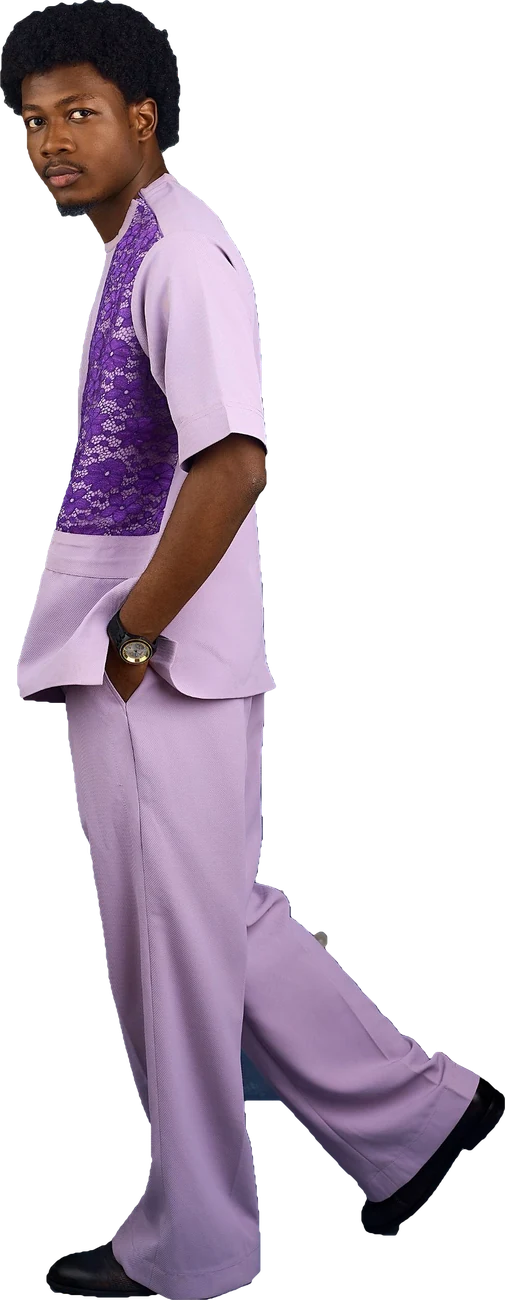
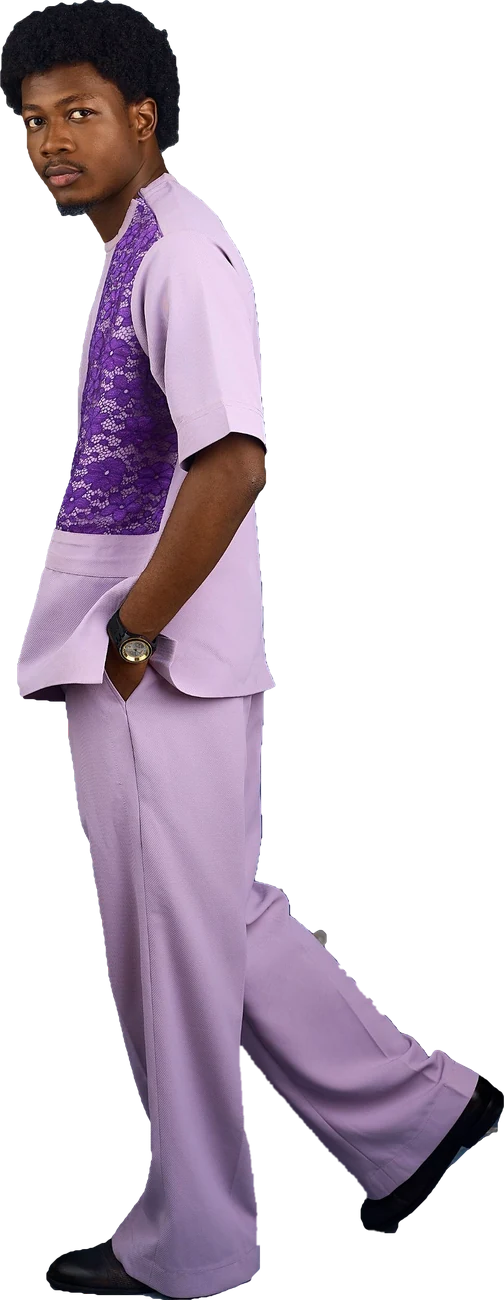
Clean feet on the Pink and Lilac runway pictures
Claude-Session: https://claude.ai/code/session_013vfZc2mS5T176uTj2Qo96s

diff --git a/index.html b/index.html
@@ -4,7 +4,7 @@
 <meta charset="utf-8">
 <meta name="viewport" content="width=device-width,initial-scale=1">
 <title>Nations Clothing</title>
-<meta http-equiv="Content-Security-Policy" content="default-src 'none'; script-src 'sha256-8jWu6xZ/jTjdVRETObOXCBa3+ZckzQ8iqR5aaGPfHdw='; style-src 'self' 'unsafe-inline' https://fonts.googleapis.com; font-src https://fonts.gstatic.com; img-src 'self' data: https://cnwiclvcgsoppobptzej.supabase.co; media-src 'self'; connect-src 'self' https://cnwiclvcgsoppobptzej.supabase.co; base-uri 'none'; form-action 'none'; object-src 'none'">
+<meta http-equiv="Content-Security-Policy" content="default-src 'none'; script-src 'sha256-idUOC27FhOTP6L+qx45SS2CHYzVFWOoHWkP40GOvg4w='; style-src 'self' 'unsafe-inline' https://fonts.googleapis.com; font-src https://fonts.gstatic.com; img-src 'self' data: https://cnwiclvcgsoppobptzej.supabase.co; media-src 'self'; connect-src 'self' https://cnwiclvcgsoppobptzej.supabase.co; base-uri 'none'; form-action 'none'; object-src 'none'">
 <meta name="referrer" content="no-referrer">
 <meta name="theme-color" content="#fbf9f7">
 <meta name="description" content="Nations Clothing: unisex fashion made in Nigeria and shipped worldwide. Shop the new collection and order on WhatsApp.">
@@ -484,11 +484,11 @@ header{background:#fbf6f2;box-shadow:0 1px 0 rgba(42,23,17,.09)}
 </div>
 
 <script>
-const A={"blossom": "img/blossom.webp?v=34d3451b", "dt-bloom": "img/dt-bloom.webp?v=a482db41", "dt-doxa": "img/dt-doxa.webp?v=b55b7f0e", "dt-esther": "img/dt-esther.webp?v=657341b9", "dt-monarch": "img/dt-monarch.webp?v=26121059", "dt-palette": "img/dt-palette.webp?v=e948cd7b", "dt-regent": "img/dt-regent.webp?v=74b560ff", "dt-sterling": "img/dt-sterling.webp?v=3f79e2e7", "dt-wave": "img/dt-wave.webp?v=07986a21", "hero-monarch": "img/hero-monarch.webp?v=21c65c76", "hero-regent": "img/hero-regent.webp?v=74b560ff", "lb-cage": "img/lb-cage.webp?v=eb76b7d3", "lb-group": "img/lb-group.webp?v=dd1621d4", "lb-lilac": "img/lb-lilac.webp?v=4a7664a2", "lb-redpink": "img/lb-redpink.webp?v=4bcd90cd", "look-bloom": "img/look-bloom.webp?v=b67dfac6", "look-doxa": "img/look-doxa.webp?v=df278483", "look-lilac": "img/look-lilac.webp?v=19ea8439", "look-monarch": "img/look-monarch.webp?v=c066a208", "look-palette": "img/look-palette.webp?v=83179417", "look-pink": "img/look-pink.webp?v=4941dd75", "look-regent": "img/look-regent.webp?v=62cc9b2b", "look-sterling": "img/look-sterling.webp?v=f4a94f68", "ph-bloom": "img/ph-bloom.webp?v=7d5749c8", "ph-doxa": "img/ph-doxa.webp?v=e5de78d0", "ph-esther": "img/ph-esther.webp?v=fb95168b", "ph-lilac": "img/ph-lilac.webp?v=89a54724", "ph-monarch": "img/ph-monarch.webp?v=21c65c76", "ph-palette": "img/ph-palette.webp?v=f4042a6a", "ph-pink": "img/ph-pink.webp?v=e0b42fd2", "ph-regent": "img/ph-regent.webp?v=a90b126e", "ph-sterling": "img/ph-sterling.webp?v=a009a0af", "ph-wave": "img/ph-wave.webp?v=b13daa5e", "women-poster": "img/women-poster.webp?v=6f24562f"};
+const A={"blossom": "img/blossom.webp?v=34d3451b", "dt-bloom": "img/dt-bloom.webp?v=a482db41", "dt-doxa": "img/dt-doxa.webp?v=b55b7f0e", "dt-esther": "img/dt-esther.webp?v=657341b9", "dt-monarch": "img/dt-monarch.webp?v=26121059", "dt-palette": "img/dt-palette.webp?v=e948cd7b", "dt-regent": "img/dt-regent.webp?v=74b560ff", "dt-sterling": "img/dt-sterling.webp?v=3f79e2e7", "dt-wave": "img/dt-wave.webp?v=07986a21", "hero-monarch": "img/hero-monarch.webp?v=21c65c76", "hero-regent": "img/hero-regent.webp?v=74b560ff", "lb-cage": "img/lb-cage.webp?v=eb76b7d3", "lb-group": "img/lb-group.webp?v=dd1621d4", "lb-lilac": "img/lb-lilac.webp?v=4a7664a2", "lb-redpink": "img/lb-redpink.webp?v=4bcd90cd", "look-bloom": "img/look-bloom.webp?v=b67dfac6", "look-doxa": "img/look-doxa.webp?v=df278483", "look-lilac": "img/look-lilac.webp?v=7d8214e3", "look-monarch": "img/look-monarch.webp?v=c066a208", "look-palette": "img/look-palette.webp?v=83179417", "look-pink": "img/look-pink.webp?v=80a5e6a9", "look-regent": "img/look-regent.webp?v=62cc9b2b", "look-sterling": "img/look-sterling.webp?v=f4a94f68", "ph-bloom": "img/ph-bloom.webp?v=7d5749c8", "ph-doxa": "img/ph-doxa.webp?v=e5de78d0", "ph-esther": "img/ph-esther.webp?v=fb95168b", "ph-lilac": "img/ph-lilac.webp?v=89a54724", "ph-monarch": "img/ph-monarch.webp?v=21c65c76", "ph-palette": "img/ph-palette.webp?v=f4042a6a", "ph-pink": "img/ph-pink.webp?v=e0b42fd2", "ph-regent": "img/ph-regent.webp?v=a90b126e", "ph-sterling": "img/ph-sterling.webp?v=a009a0af", "ph-wave": "img/ph-wave.webp?v=b13daa5e", "women-poster": "img/women-poster.webp?v=6f24562f"};
 const small=Math.min(screen.width,innerWidth)<=820;
 const pic=k=>small&&A[k].slice(0,4)==='img/'?A[k].replace('img/','img/s/'):A[k];
 const NUM=(a,b)=>{const o=[];for(let n=a;n<=b;n+=2)o.push(String(n));return o};
-const SB='https://cnwiclvcgsoppobptzej.supabase.co',SBK='sb_publishable_mn2nnN3zDJKhPapdlBtQlw_ofwsgG4q',SEED={"products": [{"id": "regent", "name": "The Regent Set", "grp": "men", "price": 60000, "big_price": null, "sizes": ["M", "L", "XL"], "colours": ["Black"], "description": "A relaxed, flowing silhouette in premium textured fabric, refined with contrast patterned details on the sleeves and pocket. Effortless in style, for both formal and celebratory occasions.", "perfect_for": "", "note": "", "photo": "img/ph-regent.webp?v=a90b126e", "photo2": "img/dt-regent.webp?v=74b560ff", "new_photo": "img/hero-regent.webp?v=74b560ff", "cutout": "img/look-regent.webp?v=62cc9b2b", "cutout_w": 506, "cutout_h": 1300, "scale": 1, "in_catalogue": true, "in_women": false, "is_new": true, "on_runway": true, "sold_out": false, "sort": 20}, {"id": "bloom", "name": "The Bloom Dress", "grp": "women", "price": 55000, "big_price": 58000, "sizes": ["4", "6", "8", "10", "12", "14", "16", "18", "20", "22", "24"], "colours": ["Orange / cream", "Red / cream", "Baby pink / deep pink", "Black / white", "Olive green / yellow", "Blue / sky blue"], "description": "Designed for Queens who love to stand out: a structured bodice, a voluminous flared skirt and dramatic ruffles around the neckline and shoulders, finished with delicate floral embellishments.", "perfect_for": "Birthdays, weddings, garden parties, bridal showers", "note": "", "photo": "img/ph-bloom.webp?v=7d5749c8", "photo2": "img/dt-bloom.webp?v=a482db41", "new_photo": null, "cutout": "img/look-bloom.webp?v=b67dfac6", "cutout_w": 475, "cutout_h": 1300, "scale": 1, "in_catalogue": true, "in_women": true, "is_new": false, "on_runway": true, "sold_out": false, "sort": 10}, {"id": "monarch", "name": "The Monarch Set", "grp": "men", "price": 55000, "big_price": null, "sizes": ["M", "L", "XL"], "colours": ["Sky Blue", "Black", "White"], "description": "For the Kings who love to look good without doing too much. A beautifully crafted native piece that brings together comfort, class and effortless style.", "perfect_for": "", "note": "Processed within 3 to 7 working days.", "photo": "img/ph-monarch.webp?v=21c65c76", "photo2": "img/dt-monarch.webp?v=26121059", "new_photo": "img/hero-monarch.webp?v=21c65c76", "cutout": "img/look-monarch.webp?v=c066a208", "cutout_w": 1102, "cutout_h": 1200, "scale": 0.8, "in_catalogue": true, "in_women": false, "is_new": true, "on_runway": true, "sold_out": false, "sort": 40}, {"id": "sterling", "name": "The Sterling Set", "grp": "men", "price": 55000, "big_price": null, "sizes": ["S", "M", "L", "XL", "XXL"], "colours": ["Black", "Brown", "Wine", "White", "Navy Blue"], "description": "A structured short-sleeve shirt in warm tan with four contrasting chocolate cargo pockets, paired with tailored straight-leg trousers in rich chocolate brown.", "perfect_for": "Wedding receptions, birthdays, dinner dates, church", "note": "", "photo": "img/ph-sterling.webp?v=a009a0af", "photo2": "img/dt-sterling.webp?v=3f79e2e7", "new_photo": null, "cutout": "img/look-sterling.webp?v=f4a94f68", "cutout_w": 484, "cutout_h": 1300, "scale": 1, "in_catalogue": true, "in_women": false, "is_new": false, "on_runway": true, "sold_out": false, "sort": 60}, {"id": "palette", "name": "The Palette Set", "grp": "women", "price": 55000, "big_price": 60000, "sizes": ["8", "10", "12", "14", "16", "18", "20", "22", "24"], "colours": ["Fuchsia Pink", "Green", "Blue"], "description": "An oversized two-piece set that blends comfort, elegance and effortless style.", "perfect_for": "Casual outings, brunch dates, travel, relaxed gatherings", "note": "", "photo": "img/ph-palette.webp?v=f4042a6a", "photo2": "img/dt-palette.webp?v=e948cd7b", "new_photo": null, "cutout": "img/look-palette.webp?v=83179417", "cutout_w": 775, "cutout_h": 1300, "scale": 1, "in_catalogue": true, "in_women": false, "is_new": false, "on_runway": true, "sold_out": false, "sort": 50}, {"id": "doxa", "name": "The Doxa Bubu", "grp": "women", "price": 65000, "big_price": 73000, "sizes": ["4", "6", "8", "10", "12", "14", "16", "18", "20", "22", "24"], "colours": ["Green", "Blue", "Brown", "Silver", "Red"], "description": "A blend of sophistication, comfort and timeless African elegance: rich, vibrant colour, a graceful silhouette and exquisite finishing, for Queens who love to make an effortless statement.", "perfect_for": "Weddings, church, birthdays, cultural events", "note": "", "photo": "img/ph-doxa.webp?v=e5de78d0", "photo2": "img/dt-doxa.webp?v=b55b7f0e", "new_photo": null, "cutout": "img/look-doxa.webp?v=df278483", "cutout_w": 729, "cutout_h": 1200, "scale": 1, "in_catalogue": true, "in_women": true, "is_new": false, "on_runway": true, "sold_out": false, "sort": 0}, {"id": "esther", "name": "The Esther Dress", "grp": "women", "price": 55000, "big_price": null, "sizes": ["4", "6", "8", "10", "12", "14", "16", "18", "20", "22"], "colours": ["Wine", "Black", "Brown", "White", "Navy Blue"], "description": "A flowing, relaxed silhouette with dramatic wide sleeves, an off-shoulder neckline finished with soft ruffles, and a contrasting ruffled hem.", "perfect_for": "Wedding receptions, birthdays, dinner dates, church", "note": "", "photo": "img/ph-esther.webp?v=fb95168b", "photo2": "img/dt-esther.webp?v=657341b9", "new_photo": null, "cutout": null, "cutout_w": null, "cutout_h": null, "scale": 1, "in_catalogue": true, "in_women": true, "is_new": false, "on_runway": false, "sold_out": false, "sort": 30}, {"id": "wave", "name": "The Wave Cord Set", "grp": "women", "price": 60000, "big_price": null, "sizes": ["4", "6", "8", "10", "12"], "colours": ["Green", "Blue", "Silver", "Brown"], "description": "A bold blend of colour, creativity and comfort: a wave-inspired design in beautiful cord texture with a relaxed silhouette.", "perfect_for": "Casual outings, brunch dates, creative events", "note": "", "photo": "img/ph-wave.webp?v=b13daa5e", "photo2": "img/dt-wave.webp?v=07986a21", "new_photo": null, "cutout": null, "cutout_w": null, "cutout_h": null, "scale": 1, "in_catalogue": true, "in_women": true, "is_new": false, "on_runway": false, "sold_out": false, "sort": 70}, {"id": "lilac", "name": "The Lilac Lace Look", "grp": "men", "price": null, "big_price": null, "sizes": ["S", "M", "L", "XL"], "colours": ["Lilac"], "description": "A lilac set with a purple lace panel, from the new shoot. Ask us on WhatsApp for the price and sizes.", "perfect_for": "", "note": "", "photo": "img/ph-lilac.webp?v=89a54724", "photo2": null, "new_photo": null, "cutout": "img/look-lilac.webp?v=19ea8439", "cutout_w": 505, "cutout_h": 1300, "scale": 1, "in_catalogue": false, "in_women": false, "is_new": false, "on_runway": true, "sold_out": false, "sort": 80}, {"id": "pink", "name": "The Pink Cord Look", "grp": "men", "price": null, "big_price": null, "sizes": ["S", "M", "L", "XL"], "colours": ["Pink"], "description": "A soft pink set with black cord detail, from the new shoot. Ask us on WhatsApp for the price and sizes.", "perfect_for": "", "note": "", "photo": "img/ph-pink.webp?v=e0b42fd2", "photo2": null, "new_photo": null, "cutout": "img/look-pink.webp?v=4941dd75", "cutout_w": 537, "cutout_h": 1300, "scale": 1, "in_catalogue": false, "in_women": false, "is_new": false, "on_runway": true, "sold_out": false, "sort": 90}], "lookbook": [{"photo": "img/lb-group.webp?v=dd1621d4", "alt": "Two men and two women from the new collection holding Nations Clothing bags", "sort": 0}, {"photo": "img/lb-lilac.webp?v=4a7664a2", "alt": "Lilac set with a purple lace panel", "sort": 10}, {"photo": "img/lb-cage.webp?v=eb76b7d3", "alt": "Black and olive tops with lattice sleeves", "sort": 20}, {"photo": "img/lb-redpink.webp?v=4bcd90cd", "alt": "Red set and pink set with cord detail", "sort": 30}], "text": {"contact": {"whatsapp": "2348147061094", "whatsapp_display": "+234 814 706 1094", "instagram": "nationsclothing.ng"}, "intro": {"heading": "Our New Look", "text": "Unisex clothing, made in Nigeria and shipped worldwide. Drag or scroll to walk the line."}, "women": {"heading": "For the Queens", "text": "Statement pieces for Queens who love to stand out: bubu, dresses and sets in rich, vibrant colour, sized 4 to 24."}, "footer": {"tagline": "Unisex fashion brand. Established 2020.", "lines": ["Made in Nigeria. Ships worldwide.", "Demurin Street, Ketu, Lagos."], "copyright": "© 2026 Nations Clothing. Made in Nigeria, shipped worldwide."}, "policy": {"items": [["Payment", "Full payment is required before orders are processed. We do not accept payment on delivery."], ["Processing time", "Orders are processed within 3 to 7 working days."], ["Delivery", "We deliver nationwide and internationally. International orders are mainly shipped by cargo. Delivery fees depend on the destination."], ["Returns and exchanges", "All sales are final. Returns or exchanges are only considered for damaged, defective or incorrect items reported within 24 hours of delivery."], ["Order cancellation", "Orders cannot be cancelled once processing has started."], ["Size and colour", "Please confirm your size, style and colour before payment. Slight colour differences may occur because of lighting and screens."]], "thanks": "Thank you for shopping with Nations Clothing Fashion House."}}};
+const SB='https://cnwiclvcgsoppobptzej.supabase.co',SBK='sb_publishable_mn2nnN3zDJKhPapdlBtQlw_ofwsgG4q',SEED={"products": [{"id": "regent", "name": "The Regent Set", "grp": "men", "price": 60000, "big_price": null, "sizes": ["M", "L", "XL"], "colours": ["Black"], "description": "A relaxed, flowing silhouette in premium textured fabric, refined with contrast patterned details on the sleeves and pocket. Effortless in style, for both formal and celebratory occasions.", "perfect_for": "", "note": "", "photo": "img/ph-regent.webp?v=a90b126e", "photo2": "img/dt-regent.webp?v=74b560ff", "new_photo": "img/hero-regent.webp?v=74b560ff", "cutout": "img/look-regent.webp?v=62cc9b2b", "cutout_w": 506, "cutout_h": 1300, "scale": 1, "in_catalogue": true, "in_women": false, "is_new": true, "on_runway": true, "sold_out": false, "sort": 20}, {"id": "bloom", "name": "The Bloom Dress", "grp": "women", "price": 55000, "big_price": 58000, "sizes": ["4", "6", "8", "10", "12", "14", "16", "18", "20", "22", "24"], "colours": ["Orange / cream", "Red / cream", "Baby pink / deep pink", "Black / white", "Olive green / yellow", "Blue / sky blue"], "description": "Designed for Queens who love to stand out: a structured bodice, a voluminous flared skirt and dramatic ruffles around the neckline and shoulders, finished with delicate floral embellishments.", "perfect_for": "Birthdays, weddings, garden parties, bridal showers", "note": "", "photo": "img/ph-bloom.webp?v=7d5749c8", "photo2": "img/dt-bloom.webp?v=a482db41", "new_photo": null, "cutout": "img/look-bloom.webp?v=b67dfac6", "cutout_w": 475, "cutout_h": 1300, "scale": 1, "in_catalogue": true, "in_women": true, "is_new": false, "on_runway": true, "sold_out": false, "sort": 10}, {"id": "monarch", "name": "The Monarch Set", "grp": "men", "price": 55000, "big_price": null, "sizes": ["M", "L", "XL"], "colours": ["Sky Blue", "Black", "White"], "description": "For the Kings who love to look good without doing too much. A beautifully crafted native piece that brings together comfort, class and effortless style.", "perfect_for": "", "note": "Processed within 3 to 7 working days.", "photo": "img/ph-monarch.webp?v=21c65c76", "photo2": "img/dt-monarch.webp?v=26121059", "new_photo": "img/hero-monarch.webp?v=21c65c76", "cutout": "img/look-monarch.webp?v=c066a208", "cutout_w": 1102, "cutout_h": 1200, "scale": 0.8, "in_catalogue": true, "in_women": false, "is_new": true, "on_runway": true, "sold_out": false, "sort": 40}, {"id": "sterling", "name": "The Sterling Set", "grp": "men", "price": 55000, "big_price": null, "sizes": ["S", "M", "L", "XL", "XXL"], "colours": ["Black", "Brown", "Wine", "White", "Navy Blue"], "description": "A structured short-sleeve shirt in warm tan with four contrasting chocolate cargo pockets, paired with tailored straight-leg trousers in rich chocolate brown.", "perfect_for": "Wedding receptions, birthdays, dinner dates, church", "note": "", "photo": "img/ph-sterling.webp?v=a009a0af", "photo2": "img/dt-sterling.webp?v=3f79e2e7", "new_photo": null, "cutout": "img/look-sterling.webp?v=f4a94f68", "cutout_w": 484, "cutout_h": 1300, "scale": 1, "in_catalogue": true, "in_women": false, "is_new": false, "on_runway": true, "sold_out": false, "sort": 60}, {"id": "palette", "name": "The Palette Set", "grp": "women", "price": 55000, "big_price": 60000, "sizes": ["8", "10", "12", "14", "16", "18", "20", "22", "24"], "colours": ["Fuchsia Pink", "Green", "Blue"], "description": "An oversized two-piece set that blends comfort, elegance and effortless style.", "perfect_for": "Casual outings, brunch dates, travel, relaxed gatherings", "note": "", "photo": "img/ph-palette.webp?v=f4042a6a", "photo2": "img/dt-palette.webp?v=e948cd7b", "new_photo": null, "cutout": "img/look-palette.webp?v=83179417", "cutout_w": 775, "cutout_h": 1300, "scale": 1, "in_catalogue": true, "in_women": false, "is_new": false, "on_runway": true, "sold_out": false, "sort": 50}, {"id": "doxa", "name": "The Doxa Bubu", "grp": "women", "price": 65000, "big_price": 73000, "sizes": ["4", "6", "8", "10", "12", "14", "16", "18", "20", "22", "24"], "colours": ["Green", "Blue", "Brown", "Silver", "Red"], "description": "A blend of sophistication, comfort and timeless African elegance: rich, vibrant colour, a graceful silhouette and exquisite finishing, for Queens who love to make an effortless statement.", "perfect_for": "Weddings, church, birthdays, cultural events", "note": "", "photo": "img/ph-doxa.webp?v=e5de78d0", "photo2": "img/dt-doxa.webp?v=b55b7f0e", "new_photo": null, "cutout": "img/look-doxa.webp?v=df278483", "cutout_w": 729, "cutout_h": 1200, "scale": 1, "in_catalogue": true, "in_women": true, "is_new": false, "on_runway": true, "sold_out": false, "sort": 0}, {"id": "esther", "name": "The Esther Dress", "grp": "women", "price": 55000, "big_price": null, "sizes": ["4", "6", "8", "10", "12", "14", "16", "18", "20", "22"], "colours": ["Wine", "Black", "Brown", "White", "Navy Blue"], "description": "A flowing, relaxed silhouette with dramatic wide sleeves, an off-shoulder neckline finished with soft ruffles, and a contrasting ruffled hem.", "perfect_for": "Wedding receptions, birthdays, dinner dates, church", "note": "", "photo": "img/ph-esther.webp?v=fb95168b", "photo2": "img/dt-esther.webp?v=657341b9", "new_photo": null, "cutout": null, "cutout_w": null, "cutout_h": null, "scale": 1, "in_catalogue": true, "in_women": true, "is_new": false, "on_runway": false, "sold_out": false, "sort": 30}, {"id": "wave", "name": "The Wave Cord Set", "grp": "women", "price": 60000, "big_price": null, "sizes": ["4", "6", "8", "10", "12"], "colours": ["Green", "Blue", "Silver", "Brown"], "description": "A bold blend of colour, creativity and comfort: a wave-inspired design in beautiful cord texture with a relaxed silhouette.", "perfect_for": "Casual outings, brunch dates, creative events", "note": "", "photo": "img/ph-wave.webp?v=b13daa5e", "photo2": "img/dt-wave.webp?v=07986a21", "new_photo": null, "cutout": null, "cutout_w": null, "cutout_h": null, "scale": 1, "in_catalogue": true, "in_women": true, "is_new": false, "on_runway": false, "sold_out": false, "sort": 70}, {"id": "lilac", "name": "The Lilac Lace Look", "grp": "men", "price": null, "big_price": null, "sizes": ["S", "M", "L", "XL"], "colours": ["Lilac"], "description": "A lilac set with a purple lace panel, from the new shoot. Ask us on WhatsApp for the price and sizes.", "perfect_for": "", "note": "", "photo": "img/ph-lilac.webp?v=89a54724", "photo2": null, "new_photo": null, "cutout": "img/look-lilac.webp?v=7d8214e3", "cutout_w": 504, "cutout_h": 1300, "scale": 1, "in_catalogue": false, "in_women": false, "is_new": false, "on_runway": true, "sold_out": false, "sort": 80}, {"id": "pink", "name": "The Pink Cord Look", "grp": "men", "price": null, "big_price": null, "sizes": ["S", "M", "L", "XL"], "colours": ["Pink"], "description": "A soft pink set with black cord detail, from the new shoot. Ask us on WhatsApp for the price and sizes.", "perfect_for": "", "note": "", "photo": "img/ph-pink.webp?v=e0b42fd2", "photo2": null, "new_photo": null, "cutout": "img/look-pink.webp?v=80a5e6a9", "cutout_w": 530, "cutout_h": 1300, "scale": 1, "in_catalogue": false, "in_women": false, "is_new": false, "on_runway": true, "sold_out": false, "sort": 90}], "lookbook": [{"photo": "img/lb-group.webp?v=dd1621d4", "alt": "Two men and two women from the new collection holding Nations Clothing bags", "sort": 0}, {"photo": "img/lb-lilac.webp?v=4a7664a2", "alt": "Lilac set with a purple lace panel", "sort": 10}, {"photo": "img/lb-cage.webp?v=eb76b7d3", "alt": "Black and olive tops with lattice sleeves", "sort": 20}, {"photo": "img/lb-redpink.webp?v=4bcd90cd", "alt": "Red set and pink set with cord detail", "sort": 30}], "text": {"contact": {"whatsapp": "2348147061094", "whatsapp_display": "+234 814 706 1094", "instagram": "nationsclothing.ng"}, "intro": {"heading": "Our New Look", "text": "Unisex clothing, made in Nigeria and shipped worldwide. Drag or scroll to walk the line."}, "women": {"heading": "For the Queens", "text": "Statement pieces for Queens who love to stand out: bubu, dresses and sets in rich, vibrant colour, sized 4 to 24."}, "footer": {"tagline": "Unisex fashion brand. Established 2020.", "lines": ["Made in Nigeria. Ships worldwide.", "Demurin Street, Ketu, Lagos."], "copyright": "© 2026 Nations Clothing. Made in Nigeria, shipped worldwide."}, "policy": {"items": [["Payment", "Full payment is required before orders are processed. We do not accept payment on delivery."], ["Processing time", "Orders are processed within 3 to 7 working days."], ["Delivery", "We deliver nationwide and internationally. International orders are mainly shipped by cargo. Delivery fees depend on the destination."], ["Returns and exchanges", "All sales are final. Returns or exchanges are only considered for damaged, defective or incorrect items reported within 24 hours of delivery."], ["Order cancellation", "Orders cannot be cancelled once processing has started."], ["Size and colour", "Please confirm your size, style and colour before payment. Slight colour differences may occur because of lighting and screens."]], "thanks": "Thank you for shopping with Nations Clothing Fashion House."}}};
 const MEDIA=SB+'/storage/v1/object/public/site-media/';
 const src=(r,sm)=>!r?'':r.startsWith('sb:')?MEDIA+(sm?r.slice(3).replace('-1600.','-800.'):r.slice(3)):(sm&&r.startsWith('img/')?r.replace('img/','img/s/'):r);
 const esc=s=>String(s==null?'':s).replace(/[&<>"']/g,c=>({'&':'&amp;','<':'&lt;','>':'&gt;','"':'&quot;',"'":'&#39;'}[c]));
